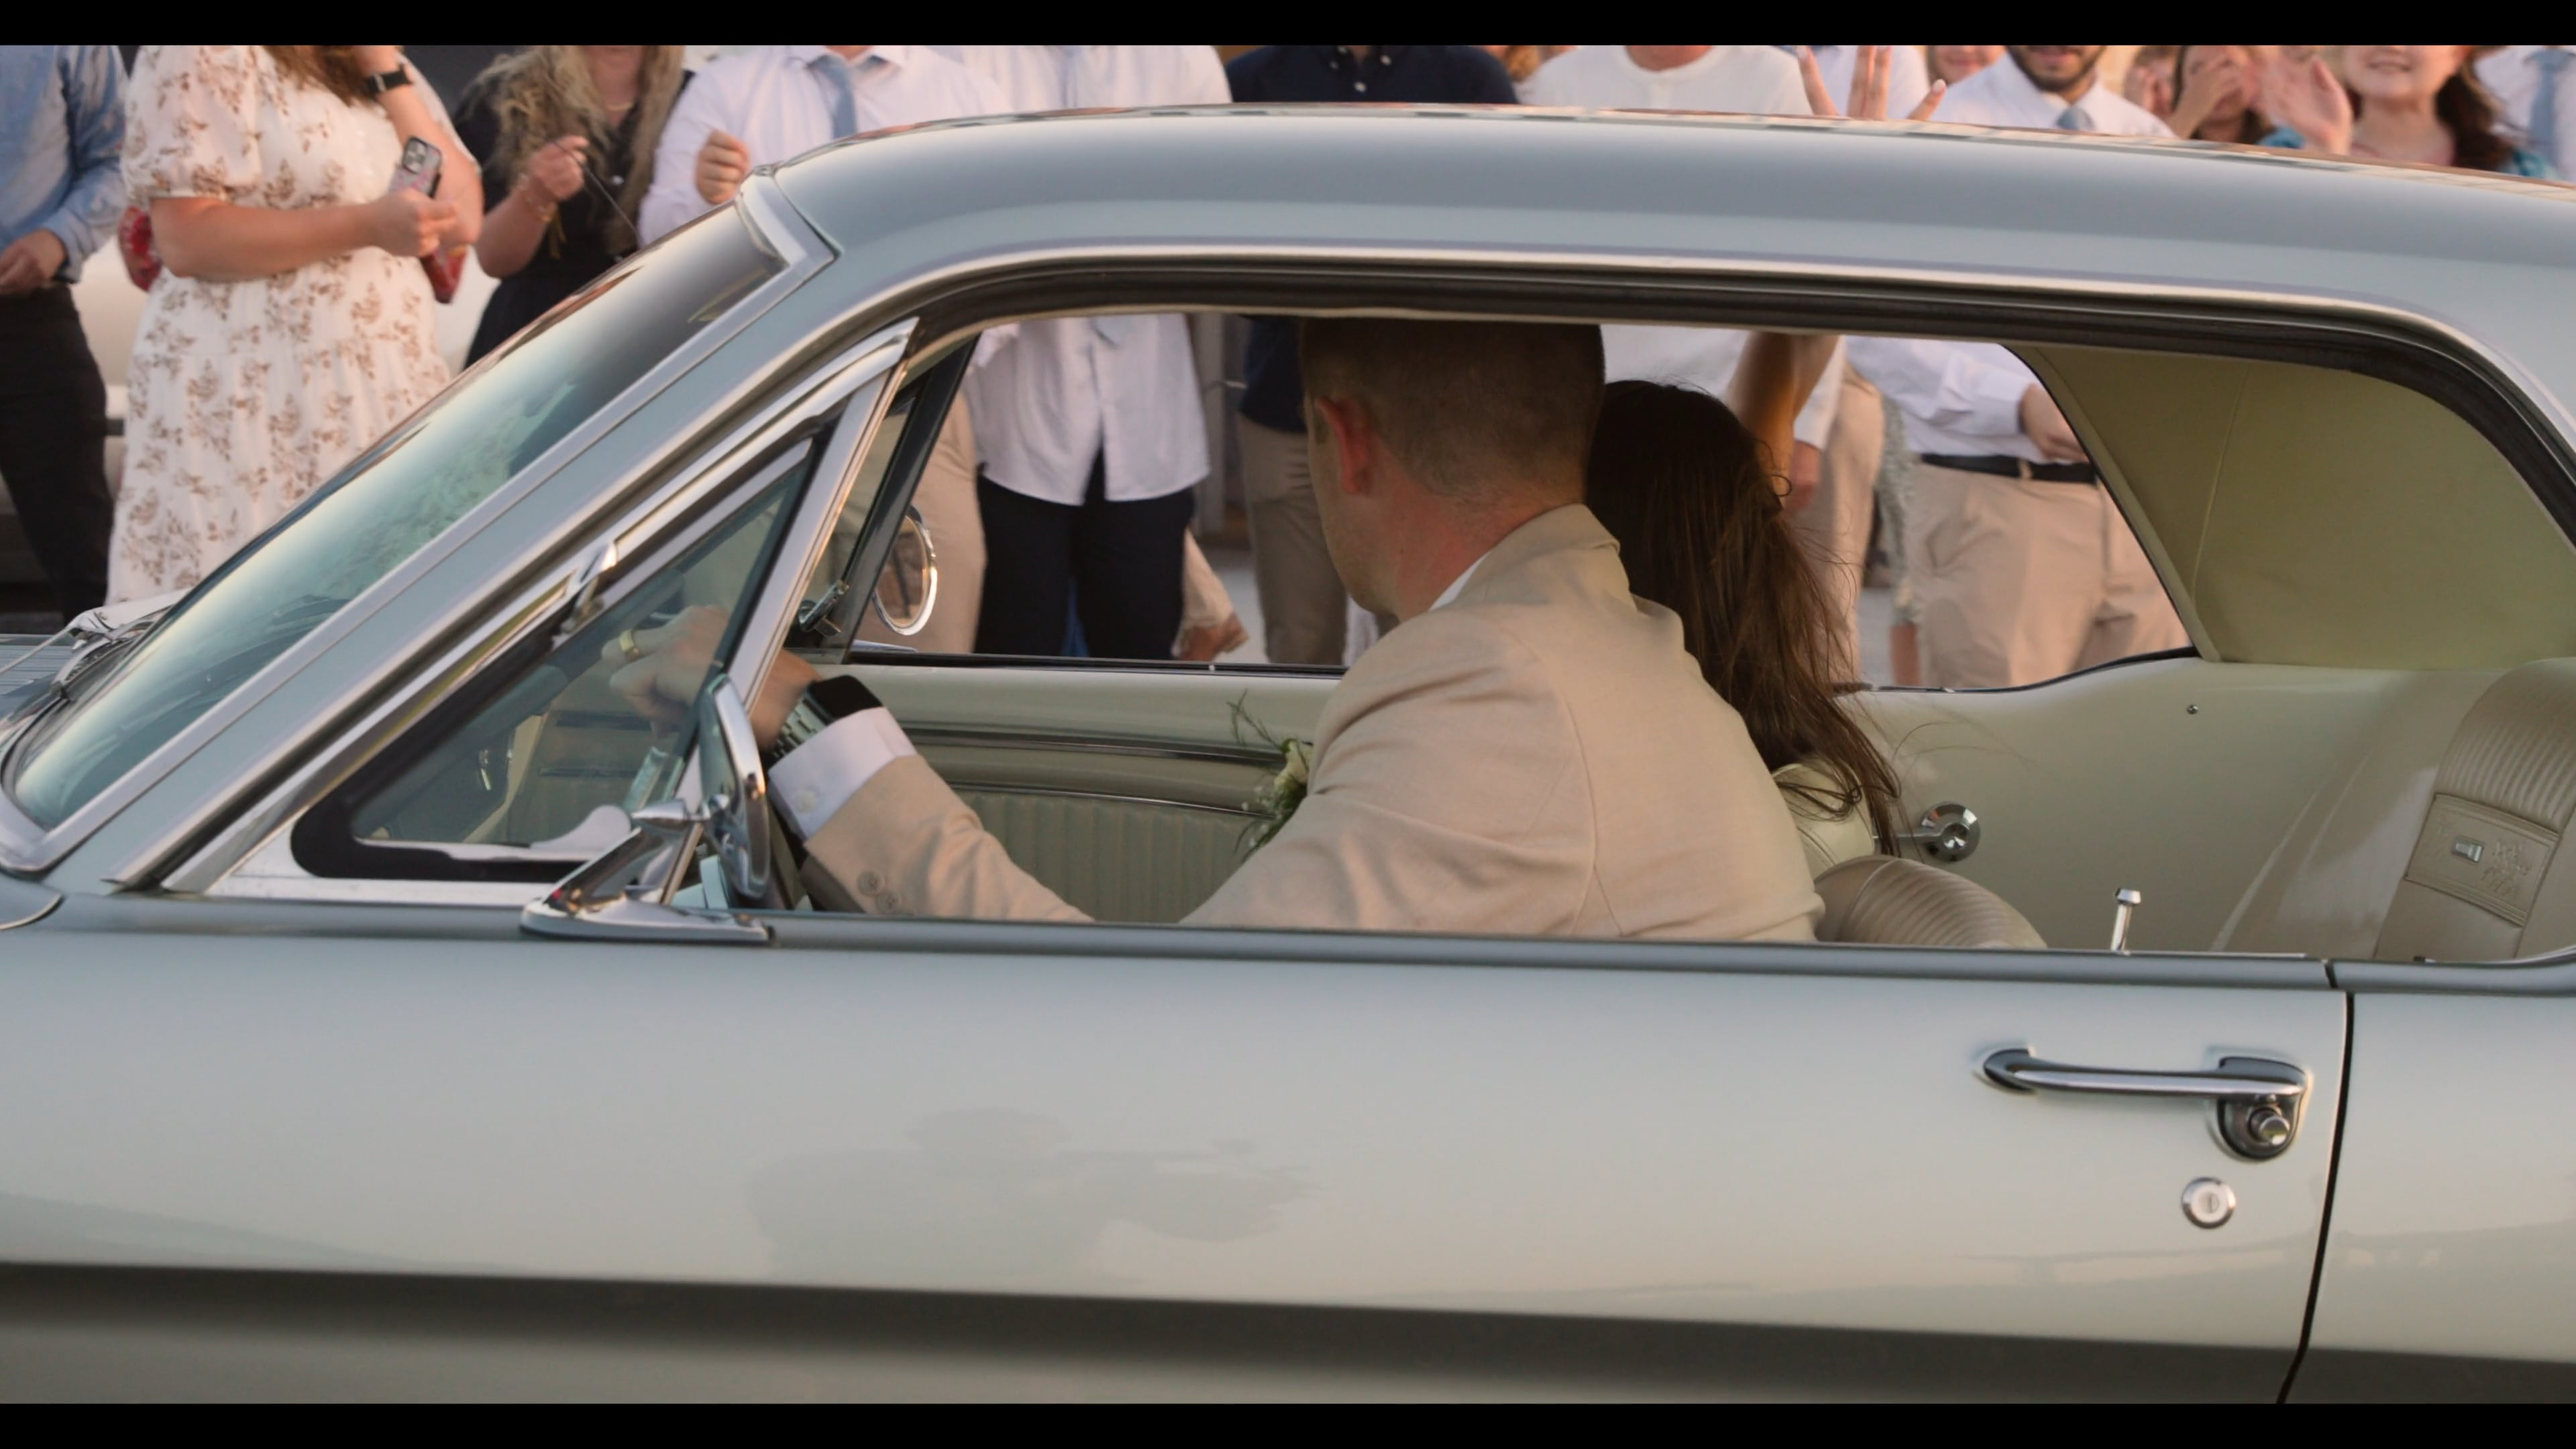
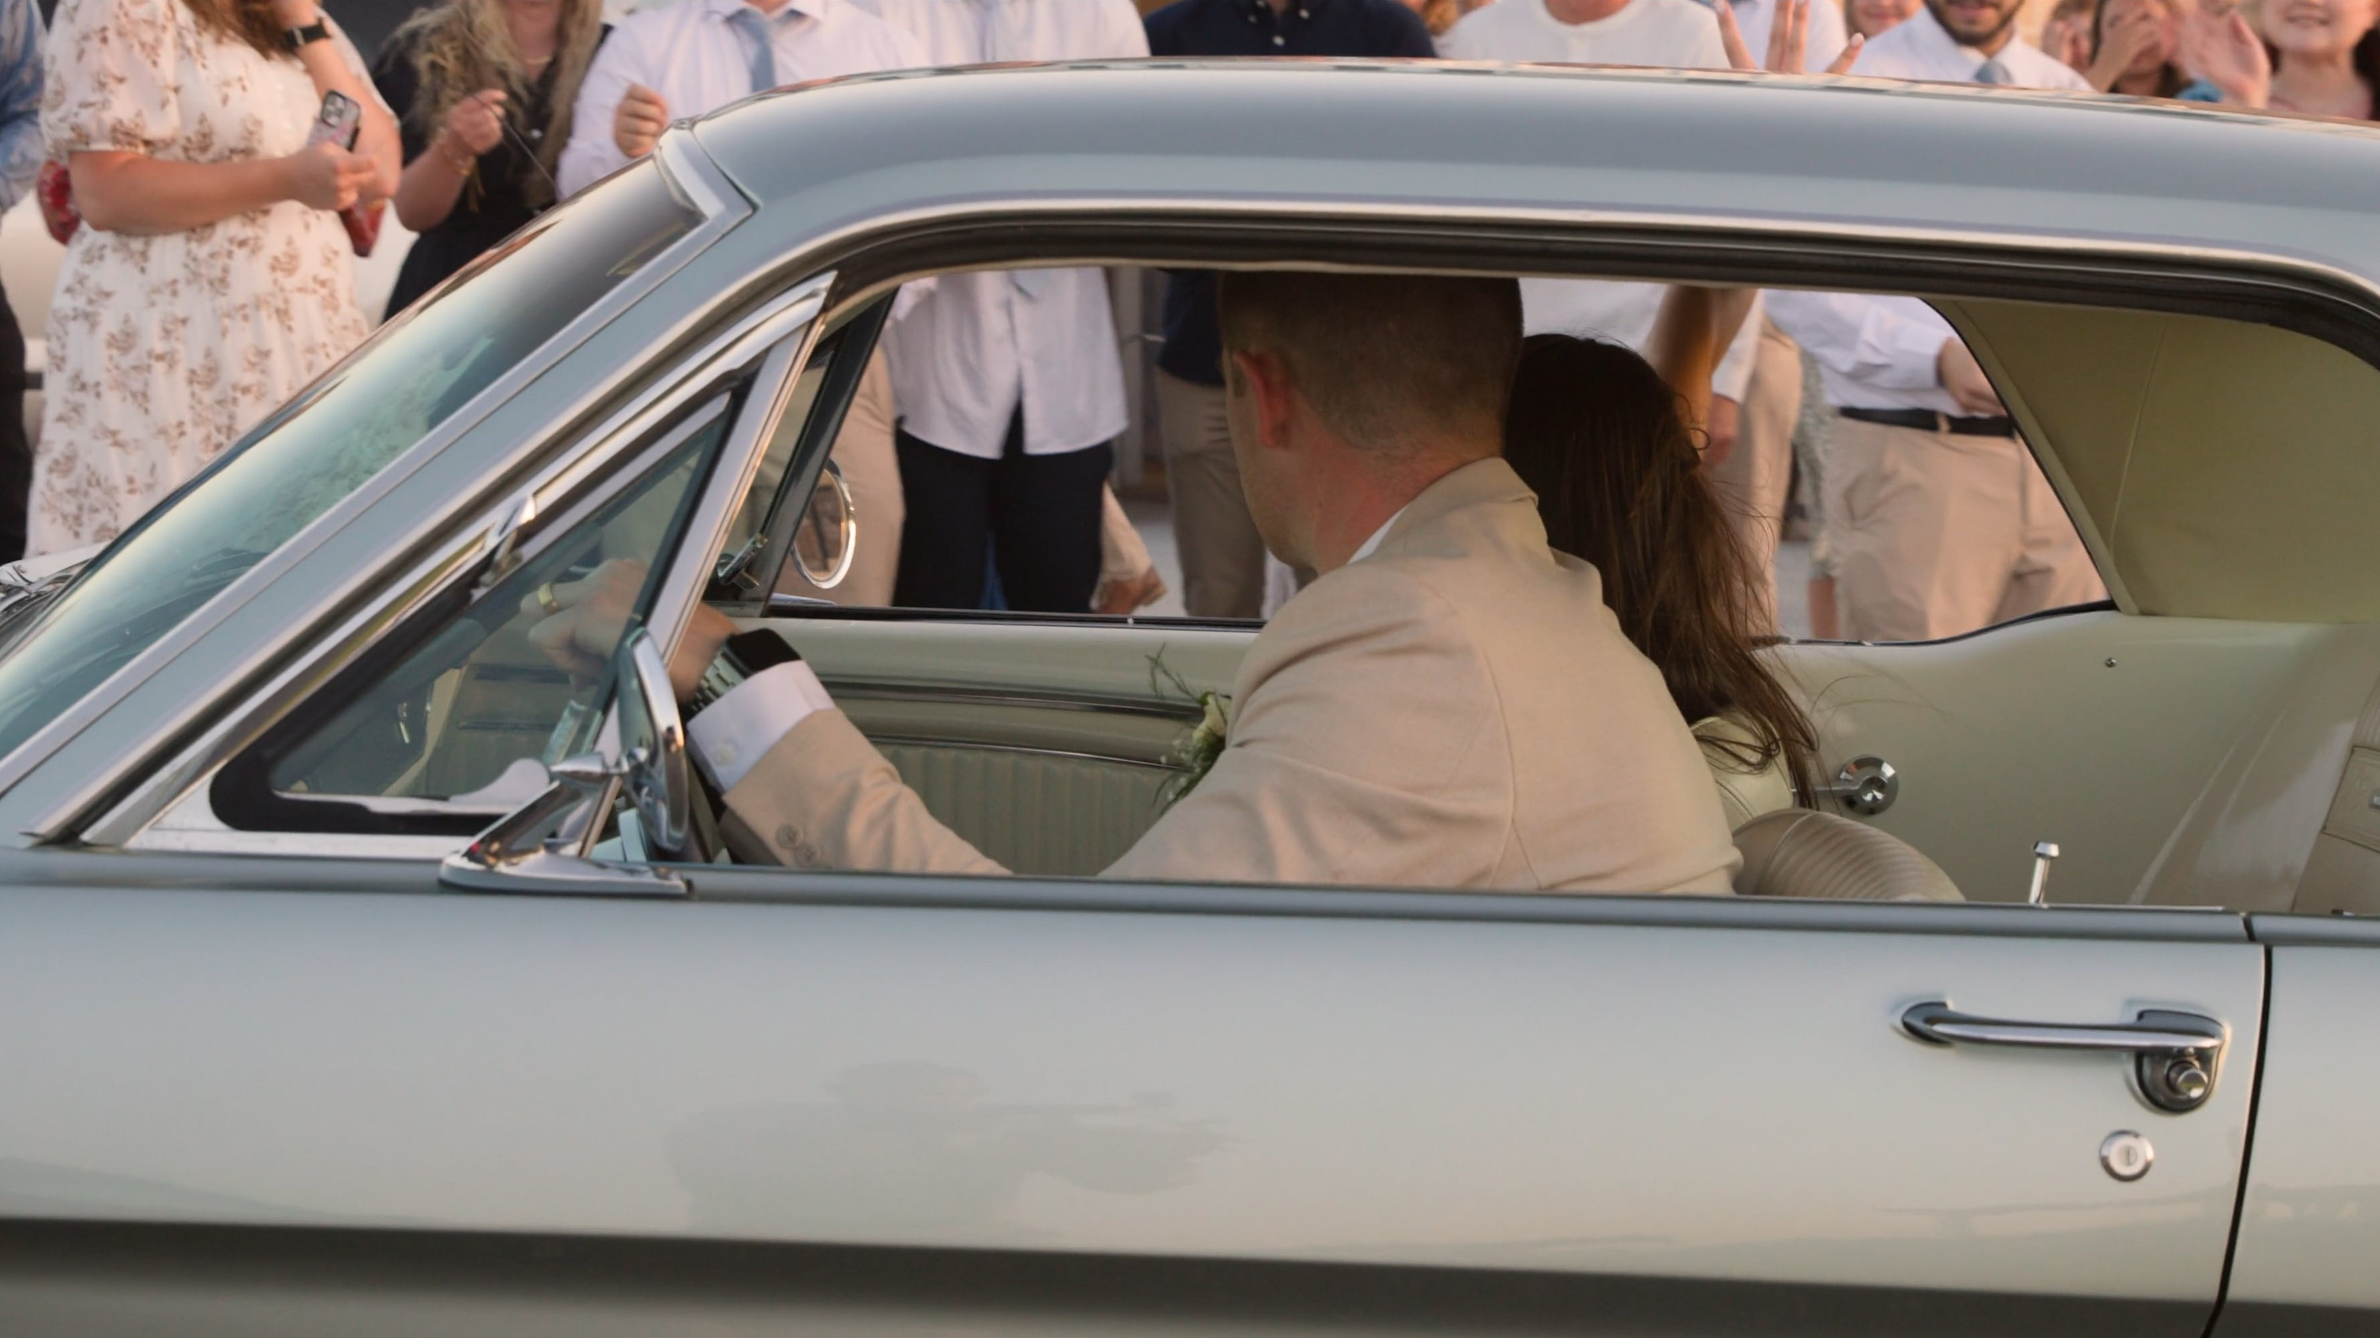
Added birthday party and Cody's wedding videos

diff --git a/weddings.html b/weddings.html
@@ -18,8 +18,19 @@
     </div>
     <div class="section grid">
         <div class="grid-item">
+            <div class="thumbnail-container" data-video="1213437684?h=1cf5d965f9">
+                <img src="thumbnails/codywedding.jpg" class="thumbnail"/>
+                <div class="play-button"></div>
+            </div>
+            <!--<div style="padding:56.25% 0 0 0;position:relative;"><iframe src="https://player.vimeo.com/video/1164854025?h=b33ad053c7&amp;title=0&amp;byline=0&amp;portrait=0&amp;badge=0&amp;autopause=0&amp;player_id=0&amp;app_id=58479" frameborder="0" allow="autoplay; fullscreen; picture-in-picture; clipboard-write; encrypted-media; web-share" referrerpolicy="strict-origin-when-cross-origin" style="position:absolute;top:0;left:0;width:100%;height:100%;" title="Final 1080p"></iframe></div>
+            -->
+            <div class="grid-text">
+                <p class="subtitle">Full Production</p>
+            </div>
+        </div>
+        <div class="grid-item">
             <div class="thumbnail-container" data-video="1188899223?h=7cfc603c5a">
-                <img src="thumbnails/bradywedding1.jpg" class="thumbnail"/>
+                <img src="thumbnails/bradywedding1.jpg?v-1" class="thumbnail"/>
                 <div class="play-button"></div>
             </div>
             <!--<div style="padding:56.25% 0 0 0;position:relative;"><iframe src="https://player.vimeo.com/video/1164854025?h=b33ad053c7&amp;title=0&amp;byline=0&amp;portrait=0&amp;badge=0&amp;autopause=0&amp;player_id=0&amp;app_id=58479" frameborder="0" allow="autoplay; fullscreen; picture-in-picture; clipboard-write; encrypted-media; web-share" referrerpolicy="strict-origin-when-cross-origin" style="position:absolute;top:0;left:0;width:100%;height:100%;" title="Final 1080p"></iframe></div>
@@ -30,7 +41,7 @@
         </div>
         <div class="grid-item">
             <div class="thumbnail-container" data-video="1193643307?h=1840517e64">
-                <img src="thumbnails/kennadywedding.jpg" class="thumbnail"/>
+                <img src="thumbnails/kennadywedding.jpg?v-1" class="thumbnail"/>
                 <div class="play-button"></div>
             </div>
             <!--<div style="padding:52.73% 0 0 0;position:relative;"><iframe src="https://player.vimeo.com/video/1150185746?h=3242a782f0&amp;title=0&amp;byline=0&amp;portrait=0&amp;badge=0&amp;autopause=0&amp;player_id=0&amp;app_id=58479" frameborder="0" allow="autoplay; fullscreen; picture-in-picture; clipboard-write; encrypted-media; web-share" referrerpolicy="strict-origin-when-cross-origin" style="position:absolute;top:0;left:0;width:100%;height:100%;" title="Greenix Pest Control - Videographer"></iframe></div>

diff --git a/index.html b/index.html
@@ -100,20 +100,20 @@
     <h2 class="section-header">Weddings</h2>
     <div class="section row">
         <div class="row-item">
+            <div class="thumbnail-container" data-video="1213437684?h=1cf5d965f9">
+                <img class="thumbnail" src="thumbnails/codywedding.jpg">
+                <div class="play-button"></div>
+            </div>
+        </div>
+        <div class="row-item">
             <div class="thumbnail-container" data-video="1188899223?h=7cfc603c5a">
-                <img class="thumbnail" src="thumbnails/bradywedding1.jpg">
+                <img class="thumbnail" src="thumbnails/bradywedding1.jpg?v-1">
                 <div class="play-button"></div>
             </div>
         </div>
         <div class="row-item">
             <div class="thumbnail-container" data-video="1193643307?h=1840517e64">
-                <img class="thumbnail" src="thumbnails/kennadywedding.jpg">
-                <div class="play-button"></div>
-            </div>
-        </div>
-        <div class="row-item">
-            <div class="thumbnail-container" data-video="1193667100?h=1dfcf7aee2">
-                <img class="thumbnail" src="thumbnails/nickwedding.jpg">
+                <img class="thumbnail" src="thumbnails/kennadywedding.jpg?v-1">
                 <div class="play-button"></div>
             </div>
         </div>

diff --git a/events.html b/events.html
@@ -51,6 +51,17 @@
             </div>
         </div>
         <div class="grid-item">
+            <div class="thumbnail-container" data-video="1214710987?h=3ddf6b32ed">
+                <img src="thumbnails/birthdayparty.jpg" class="thumbnail"/>
+                <div class="play-button"></div>
+            </div>
+            <!--<div style="padding:52.73% 0 0 0;position:relative;"><iframe src="https://player.vimeo.com/video/1148993482?h=86b4a83564&amp;title=0&amp;byline=0&amp;portrait=0&amp;badge=0&amp;autopause=0&amp;player_id=0&amp;app_id=58479" frameborder="0" allow="autoplay; fullscreen; picture-in-picture; clipboard-write; encrypted-media; web-share" referrerpolicy="strict-origin-when-cross-origin" style="position:absolute;top:0;left:0;width:100%;height:100%;" title="Girls on the Run Nonprofit - DP &amp; Videographer"></iframe></div>
+        -->
+            <div class="grid-text">
+            <p class="subtitle">Full Production</p>
+            </div>
+        </div>
+        <div class="grid-item">
             <div class="thumbnail-container" data-video="1168940651?h=235fd91ae9">
                 <img src="thumbnails/vastforward2.png" class="thumbnail"/>
                 <div class="play-button"></div>

diff --git a/header.css b/header.css
@@ -10,6 +10,10 @@
     min-width: 200px;
 }
 
+.header .logo-link:hover {
+    opacity: 0.7;
+}
+
 .header .logo{
     width: 100%;
 }
